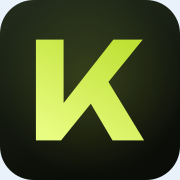
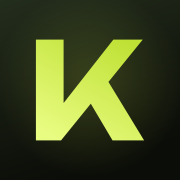
Иконка приложения отстала от логотипа на пять дней
В каталоге Xcode лежала иконка от 13 октября — чёрный квадрат с белой
буквой К, то, что было до «Ночи». Её не собирала ни одна команда:
npm run icons писал только в icons/, а про каталог приложения не знал.
Теперь знает.

Заодно исправлено то, что сломалось бы и с новой иконкой: для iOS нужен
отдельный исходник без скругления. Система накладывает свою маску
поверх, и наше скругление под ней даёт светлый ореол по краю, а
прозрачные углы App Store не принимает вовсе. icons/icon-ios.svg —
тот же знак во весь квадрат, залитый до краёв.

Из того же исходника теперь собирается apple-touch-icon: у ярлыка из
Safari была ровно та же беда.

Claude-Session: https://claude.ai/code/session_013Ahh3kqSuF8jE529hAjtgM

diff --git a/sw.js b/sw.js
@@ -9,7 +9,7 @@
  * Стратегия — сеть вперёд: опубликованные изменения доходят сразу,
  * а кэш выручает только когда сети нет.
  */
-const CACHE = 'kamron-app-v1.2.3';
+const CACHE = 'kamron-app-v1.2.4';
 const PREFIX = 'kamron-app-';
 const ASSETS = [
   './',

diff --git a/app.js b/app.js
@@ -6,7 +6,7 @@
 (function () {
   'use strict';
 
-  var VERSION = '1.2.3';
+  var VERSION = '1.2.4';
   var KEY = 'den-kamrona-v3';
   var GRACE = 15;        // минут после конца дела, пока ещё можно отметить
 
